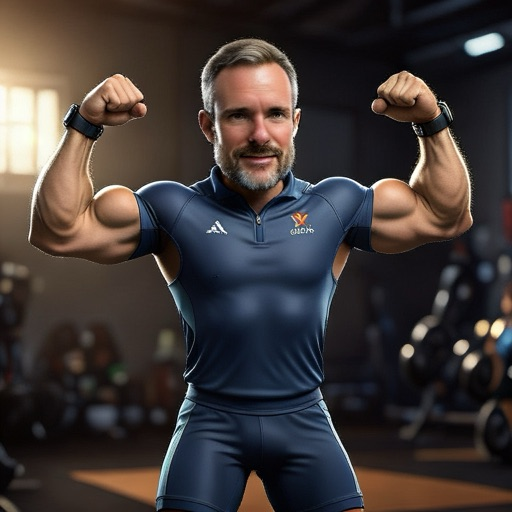
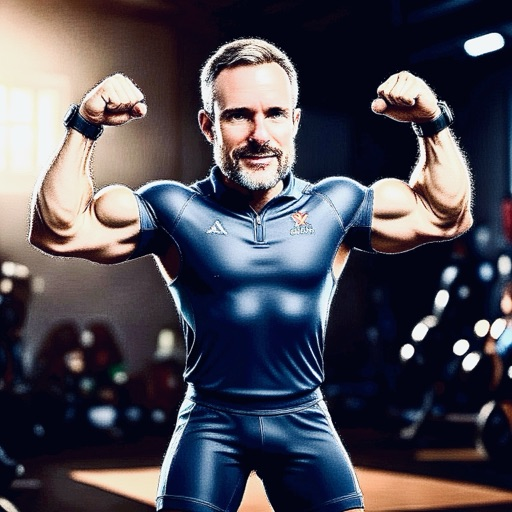
Marquage : nouvelle image du médaillon (v22)

diff --git a/sw.js b/sw.js
@@ -1,5 +1,5 @@
 // Cache hors ligne : réseau d'abord (sans cache HTTP) pour recevoir les mises à jour, cache seulement sans connexion.
-const CACHE = 'muscu-v21';
+const CACHE = 'muscu-v22';
 const FILES = ['./', './index.html', './manifest.json', './version.txt', './icon-180.png', './icon-192.png', './icon-512.png', './romu.jpg'];
 self.addEventListener('install', e => {
   e.waitUntil(caches.open(CACHE).then(c => c.addAll(FILES.map(f => new Request(f, {cache: 'reload'})))));

diff --git a/index.html b/index.html
@@ -256,7 +256,7 @@ function download(name, text, type) {
 
 /* ---------- Données (stockées sur l'iPhone) ---------- */
 const KEY = 'forenix-muscu-v1';
-const APP_VERSION = '21';
+const APP_VERSION = '22';
 function seed() {
   const L = a => a.map(name => ({id: uid(), name}));
   return {
